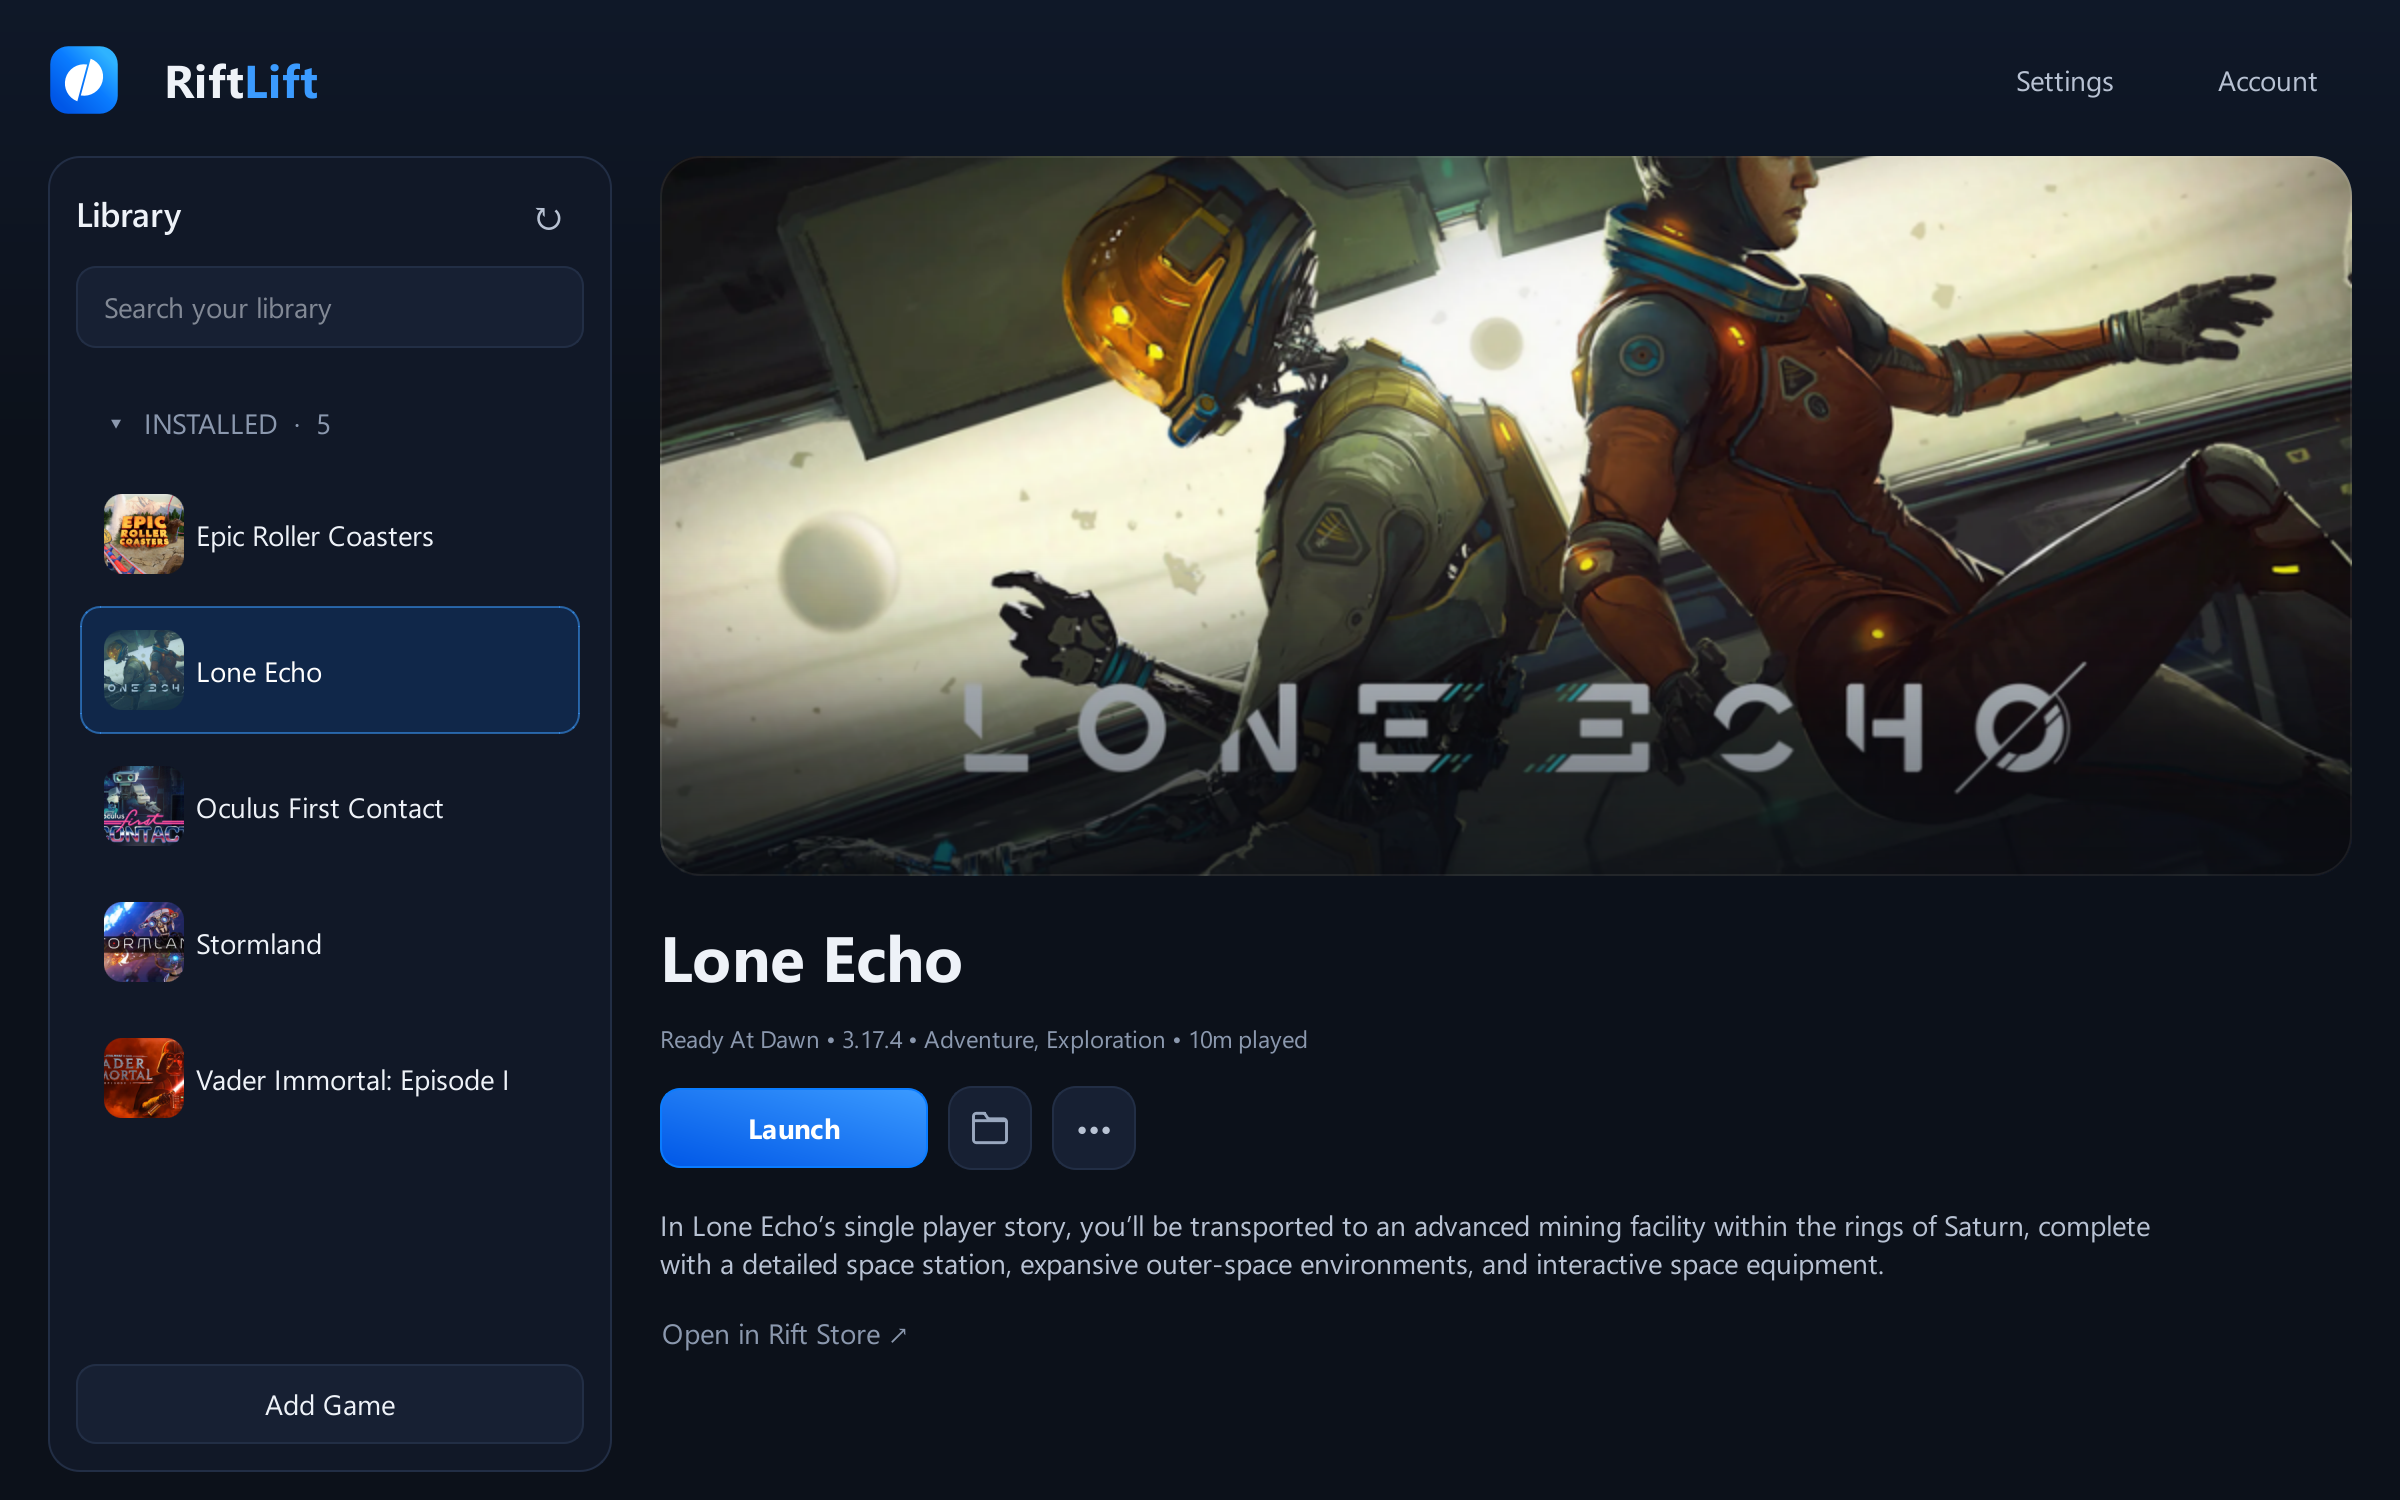
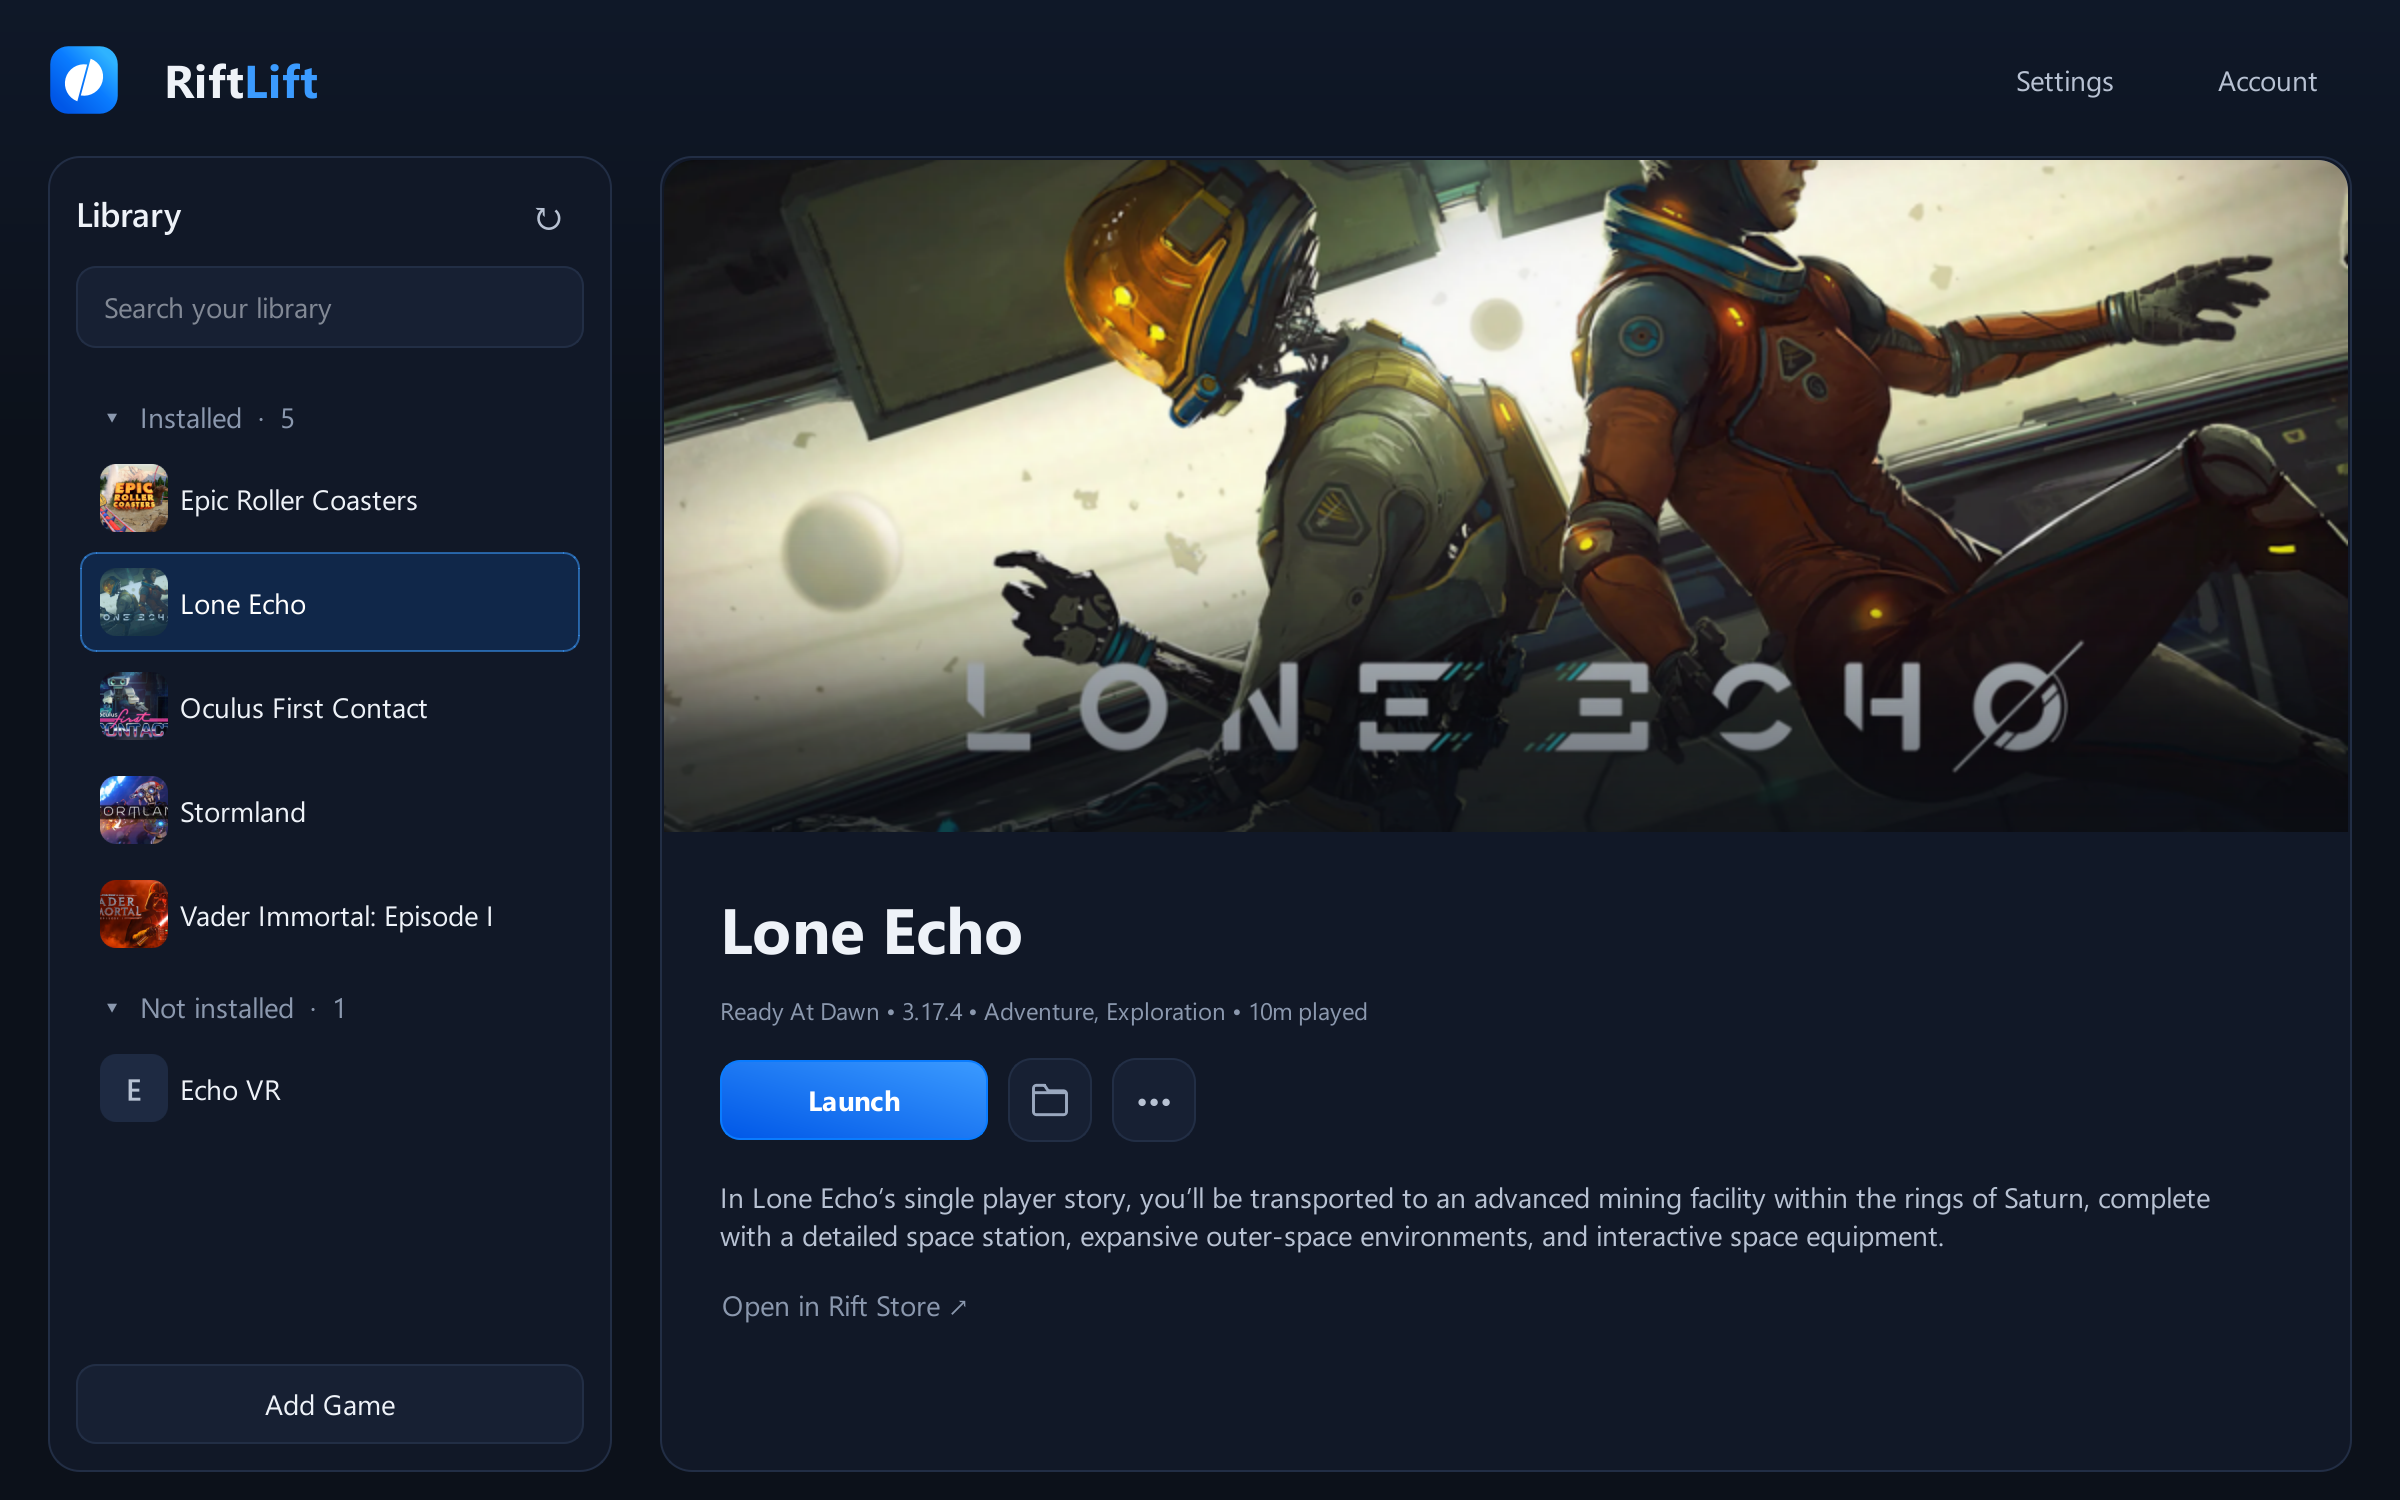
Give the library two matching panels and tighter rows
- The game page is a panel like the sidebar, with the key art across
  its top edge and the details padded beneath, so both columns align.
- Hero height follows the art's proportions as the window resizes.
- Tighter, evenly spaced library rows; sentence-case category headers.
- Games without store art get an initial tile so rows stay aligned.

diff --git a/src/riftlift/native_shell.py b/src/riftlift/native_shell.py
@@ -11,7 +11,7 @@ from importlib.resources import files
 from PySide6 import QtCore, QtGui, QtWidgets
 
 from .i18n import namespace
-from .native_theme import BLUE_LIGHT, STYLE
+from .native_theme import BLUE_LIGHT, CONTROL_HOVER, STYLE, TEXT_SOFT
 
 NAV = namespace("nav")
 GAME = namespace("game")
@@ -52,6 +52,28 @@ def rounded_icon(path: str, size: int = 40, radius: float = 9) -> QtGui.QIcon:
     return QtGui.QIcon(tile)
 
 
+def placeholder_icon(name: str, size: int = 34, radius: float = 8) -> QtGui.QIcon:
+    """A tile with the game's initial, keeping rows aligned when art is missing."""
+    scale = 3
+    tile = QtGui.QPixmap(size * scale, size * scale)
+    tile.fill(QtCore.Qt.transparent)
+    painter = QtGui.QPainter(tile)
+    painter.setRenderHint(QtGui.QPainter.Antialiasing)
+    painter.setPen(QtCore.Qt.NoPen)
+    painter.setBrush(QtGui.QColor(CONTROL_HOVER))
+    painter.drawRoundedRect(QtCore.QRectF(tile.rect()), radius * scale, radius * scale)
+    font = QtGui.QFont("Segoe UI")
+    font.setPixelSize(int(size * scale * 0.45))
+    font.setWeight(QtGui.QFont.DemiBold)
+    painter.setFont(font)
+    painter.setPen(QtGui.QColor(TEXT_SOFT))
+    initial = next((c for c in name if c.isalnum()), "?").upper()
+    painter.drawText(tile.rect(), QtCore.Qt.AlignCenter, initial)
+    painter.end()
+    tile.setDevicePixelRatio(scale)
+    return QtGui.QIcon(tile)
+
+
 def key_art(pixmap: QtGui.QPixmap) -> QtGui.QPixmap:
     """Recover the clean 16:9 key art from a Steam-style composite banner.
 
@@ -65,17 +87,39 @@ def key_art(pixmap: QtGui.QPixmap) -> QtGui.QPixmap:
     return pixmap.copy((1920 - width) // 2, (620 - height) // 2, width, height)
 
 
+def _top_rounded(rect: QtCore.QRectF, radius: float) -> QtGui.QPainterPath:
+    path = QtGui.QPainterPath()
+    path.moveTo(rect.left(), rect.bottom())
+    path.lineTo(rect.left(), rect.top() + radius)
+    path.arcTo(rect.left(), rect.top(), radius * 2, radius * 2, 180, -90)
+    path.lineTo(rect.right() - radius, rect.top())
+    path.arcTo(rect.right() - radius * 2, rect.top(), radius * 2, radius * 2, 90, -90)
+    path.lineTo(rect.right(), rect.bottom())
+    path.closeSubpath()
+    return path
+
+
 class Artwork(QtWidgets.QWidget):
     """Artwork surface with a quiet original portal fallback; no network fetches."""
 
     def __init__(self):
         super().__init__()
         self.hero = QtGui.QPixmap()
-        self.setMinimumHeight(220)
-        self.setMaximumHeight(360)
-        self.setSizePolicy(
-            QtWidgets.QSizePolicy.Expanding, QtWidgets.QSizePolicy.Expanding
+        policy = QtWidgets.QSizePolicy(
+            QtWidgets.QSizePolicy.Expanding, QtWidgets.QSizePolicy.Preferred
         )
+        policy.setHeightForWidth(True)
+        self.setSizePolicy(policy)
+
+    def hasHeightForWidth(self):
+        return True
+
+    def heightForWidth(self, width):
+        # Banner proportions that keep the key art recognisable at any width.
+        return int(min(max(width * 0.4, 220), 380))
+
+    def sizeHint(self):
+        return QtCore.QSize(800, self.heightForWidth(800))
 
     def set_artwork(self, path: str) -> None:
         self.hero = key_art(QtGui.QPixmap(path))
@@ -85,8 +129,7 @@ class Artwork(QtWidgets.QWidget):
         painter = QtGui.QPainter(self)
         painter.setRenderHint(QtGui.QPainter.Antialiasing)
         painter.setRenderHint(QtGui.QPainter.SmoothPixmapTransform)
-        clip = QtGui.QPainterPath()
-        clip.addRoundedRect(QtCore.QRectF(self.rect()), 20, 20)
+        clip = _top_rounded(QtCore.QRectF(self.rect()), 15)
         painter.setClipPath(clip)
         background = QtGui.QLinearGradient(0, 0, self.width(), self.height())
         background.setColorAt(0, QtGui.QColor("#0d1a36"))
@@ -123,12 +166,6 @@ class Artwork(QtWidgets.QWidget):
         shade.setColorAt(0, QtGui.QColor(12, 17, 26, 0))
         shade.setColorAt(1, QtGui.QColor(12, 17, 26, 150))
         painter.fillRect(self.rect(), shade)
-        painter.setClipping(False)
-        painter.setPen(QtGui.QPen(QtGui.QColor(255, 255, 255, 18), 1))
-        painter.setBrush(QtCore.Qt.NoBrush)
-        painter.drawRoundedRect(
-            QtCore.QRectF(self.rect()).adjusted(0.5, 0.5, -0.5, -0.5), 20, 20
-        )
 
 
 class Placeholder(QtWidgets.QFrame):
@@ -248,7 +285,7 @@ class NativePresentation:
         self.tree = QtWidgets.QTreeWidget()
         self.tree.setAccessibleName(LIBRARY("title"))
         self.tree.setHeaderHidden(True)
-        self.tree.setIconSize(QtCore.QSize(40, 40))
+        self.tree.setIconSize(QtCore.QSize(34, 34))
         self.tree.setIndentation(0)
         self.tree.setRootIsDecorated(False)
         self.tree.setHorizontalScrollBarPolicy(QtCore.Qt.ScrollBarAlwaysOff)
@@ -274,8 +311,11 @@ class NativePresentation:
         content.addWidget(sidebar, 1)
 
         self.stack = QtWidgets.QStackedWidget()
+        self.stack.setObjectName("content")
+        self.stack.setAttribute(QtCore.Qt.WA_StyledBackground, True)
         empty = QtWidgets.QWidget()
         empty_layout = QtWidgets.QVBoxLayout(empty)
+        empty_layout.setContentsMargins(36, 32, 36, 32)
         empty_layout.addStretch()
         empty_layout.addWidget(self.label(SHELL("welcome"), "game"))
         hint = self.label(SHELL("welcome_hint"), "description")
@@ -323,14 +363,20 @@ class NativePresentation:
     def _native_detail(self):
         page = QtWidgets.QWidget()
         layout = QtWidgets.QVBoxLayout(page)
-        layout.setContentsMargins(0, 0, 0, 0)
-        layout.setSpacing(12)
+        # The page is a panel like the sidebar: artwork across the top edge,
+        # details padded beneath it.
+        layout.setContentsMargins(1, 1, 1, 0)
+        layout.setSpacing(0)
         self.hero = Artwork()
-        layout.addWidget(self.hero, 1)
+        layout.addWidget(self.hero)
+        body = QtWidgets.QVBoxLayout()
+        body.setContentsMargins(28, 20, 28, 24)
+        body.setSpacing(12)
+        layout.addLayout(body, 1)
         self.game_name = self.label("", "game")
         self.game_name.setWordWrap(False)
-        layout.addSpacing(6)
-        layout.addWidget(self.game_name)
+        body.addSpacing(6)
+        body.addWidget(self.game_name)
         self.meta_row = QtWidgets.QHBoxLayout()
         self.meta = self.label("", "muted")
         self.meta.setWordWrap(True)
@@ -339,7 +385,7 @@ class NativePresentation:
         self.meta_skeleton = Placeholder()
         for widget in (self.meta, self.meta_detail, self.meta_skeleton):
             self.meta_row.addWidget(widget)
-        layout.addLayout(self.meta_row)
+        body.addLayout(self.meta_row)
         actions = QtWidgets.QHBoxLayout()
         actions.setSpacing(10)
         self.launch = self.button(GAME("launch"), self.launch_game, True)
@@ -384,9 +430,9 @@ class NativePresentation:
         self.more_button.setMenu(self.game_menu)
         actions.addWidget(self.more_button)
         actions.addStretch()
-        layout.addSpacing(4)
-        layout.addLayout(actions)
-        layout.addSpacing(6)
+        body.addSpacing(4)
+        body.addLayout(actions)
+        body.addSpacing(6)
         self.description_heading = self.label(GAME("about"), "section")
         self.description_heading.setParent(page)
         self.description_heading.hide()
@@ -396,9 +442,9 @@ class NativePresentation:
         self.description_label.setTextInteractionFlags(
             QtCore.Qt.TextSelectableByMouse | QtCore.Qt.TextSelectableByKeyboard
         )
-        layout.addWidget(self.description_label)
+        body.addWidget(self.description_label)
         self.description_skeleton = Placeholder()
-        layout.addWidget(self.description_skeleton)
+        body.addWidget(self.description_skeleton)
         self.description_skeleton.hide()
         links = QtWidgets.QHBoxLayout()
         self.store_link = self.button(GAME("open_rift_store"), self.open_store)
@@ -410,8 +456,8 @@ class NativePresentation:
         self.add_steam_button.setObjectName("link")
         links.addWidget(self.add_steam_button)
         links.addStretch()
-        layout.addLayout(links)
-        layout.addStretch()
+        body.addLayout(links)
+        body.addStretch()
         return page
 
     def _filter_library(self, text=""):

diff --git a/src/riftlift/main_window.py b/src/riftlift/main_window.py
@@ -38,7 +38,7 @@ from .metadata import (
     fetch_steam_catalog_metadata,
     populate_game_metadata,
 )
-from .native_shell import NativePresentation, rounded_icon
+from .native_shell import NativePresentation, placeholder_icon, rounded_icon
 from .native_theme import STYLE
 from .pages.settings import SettingsPage
 from .playtime import format_playtime, playtime
@@ -359,7 +359,7 @@ class Window(NativePresentation, QtWidgets.QMainWindow):
         count = item.childCount()
         item.setHidden(count == 0)
         arrow = "▾" if item.isExpanded() else "▸"
-        item.setText(0, f"{arrow}  {label.upper()}  ·  {count}")
+        item.setText(0, f"{arrow}  {label}  ·  {count}")
 
     def refresh(self, preferred=None):
         if preferred:
@@ -430,9 +430,8 @@ class Window(NativePresentation, QtWidgets.QMainWindow):
         )
         item.setToolTip(0, game.name + version_line)
         item.setData(0, QtCore.Qt.UserRole, game)
-        icon = rounded_icon(game.artwork.get("icon", ""))
-        if not icon.isNull():
-            item.setIcon(0, icon)
+        icon = rounded_icon(game.artwork.get("icon", ""), 34, 8)
+        item.setIcon(0, placeholder_icon(game.name) if icon.isNull() else icon)
         return item
 
     def _render_tree(self):
@@ -456,9 +455,8 @@ class Window(NativePresentation, QtWidgets.QMainWindow):
         for app in not_installed:
             item = QtWidgets.QTreeWidgetItem([app.name])
             item.setData(0, QtCore.Qt.UserRole, app)
-            icon_path = icons.get(app.app_id)
-            if icon_path:
-                item.setIcon(0, rounded_icon(icon_path))
+            icon = rounded_icon(icons.get(app.app_id) or "", 34, 8)
+            item.setIcon(0, placeholder_icon(app.name) if icon.isNull() else icon)
             self._owned_category.addChild(item)
         self._set_category_text(self._owned_category, LIBRARY("not_installed"))
         self.tree.blockSignals(False)

diff --git a/src/riftlift/native_theme.py b/src/riftlift/native_theme.py
@@ -38,6 +38,7 @@ QWidget {{ background: transparent; color: {TEXT}; font: 14px 'Segoe UI'; }}
 QMainWindow {{ background: {BACKGROUND}; }}
 QDialog {{ background: qlineargradient(x1:0, y1:0, x2:0, y2:1, stop:0 {GLOW}, stop:0.3 {BACKGROUND}, stop:1 {BACKGROUND}); }}
 QWidget#root {{ background: qlineargradient(x1:0, y1:0, x2:0, y2:1, stop:0 {GLOW}, stop:0.3 {BACKGROUND}, stop:1 {BACKGROUND}); }}
+QStackedWidget#content {{ background: {PANEL}; border: 1px solid {BORDER}; border-radius: 16px; }}
 QWidget#sidebar {{ background: {PANEL}; border: 1px solid {BORDER}; border-radius: 16px; }}
 QToolTip {{ background: {CONTROL}; color: {TEXT}; border: 1px solid {BORDER_STRONG};
  border-radius: 6px; padding: 6px 8px; }}
@@ -107,10 +108,11 @@ QCheckBox::indicator:checked {{ background: {BLUE}; border-color: {BLUE}; image:
 QCheckBox::indicator:disabled {{ background: {PANEL}; border-color: {BORDER}; }}
 
 QTreeWidget {{ background: transparent; border: 2px solid transparent; outline: 0; }}
-QTreeWidget::item {{ border: 1px solid transparent; border-radius: 10px; padding: 10px 8px; margin: 2px 0; }}
+QTreeWidget::item {{ border: 1px solid transparent; border-radius: 8px; padding: 6px 6px; margin: 1px 0; }}
 QTreeWidget::item:hover {{ background: {CONTROL}; }}
 QTreeWidget::item:selected {{ background: {SELECTION}; border-color: {SELECTION_BORDER}; color: #ffffff; }}
-QTreeWidget::item:has-children {{ color: {TEXT_MUTED}; font-size: 11px; font-weight: 600; padding-top: 12px; }}
+QTreeWidget::item:has-children {{ color: {TEXT_MUTED}; font-size: 12px; font-weight: 600; padding: 10px 6px 4px 6px; }}
+QTreeWidget::item:has-children:hover {{ background: transparent; color: {TEXT_SOFT}; }}
 
 QScrollArea, QStackedWidget {{ border: 0; background: transparent; }}
 QScrollBar:vertical {{ background: transparent; width: 8px; margin: 2px; }}
